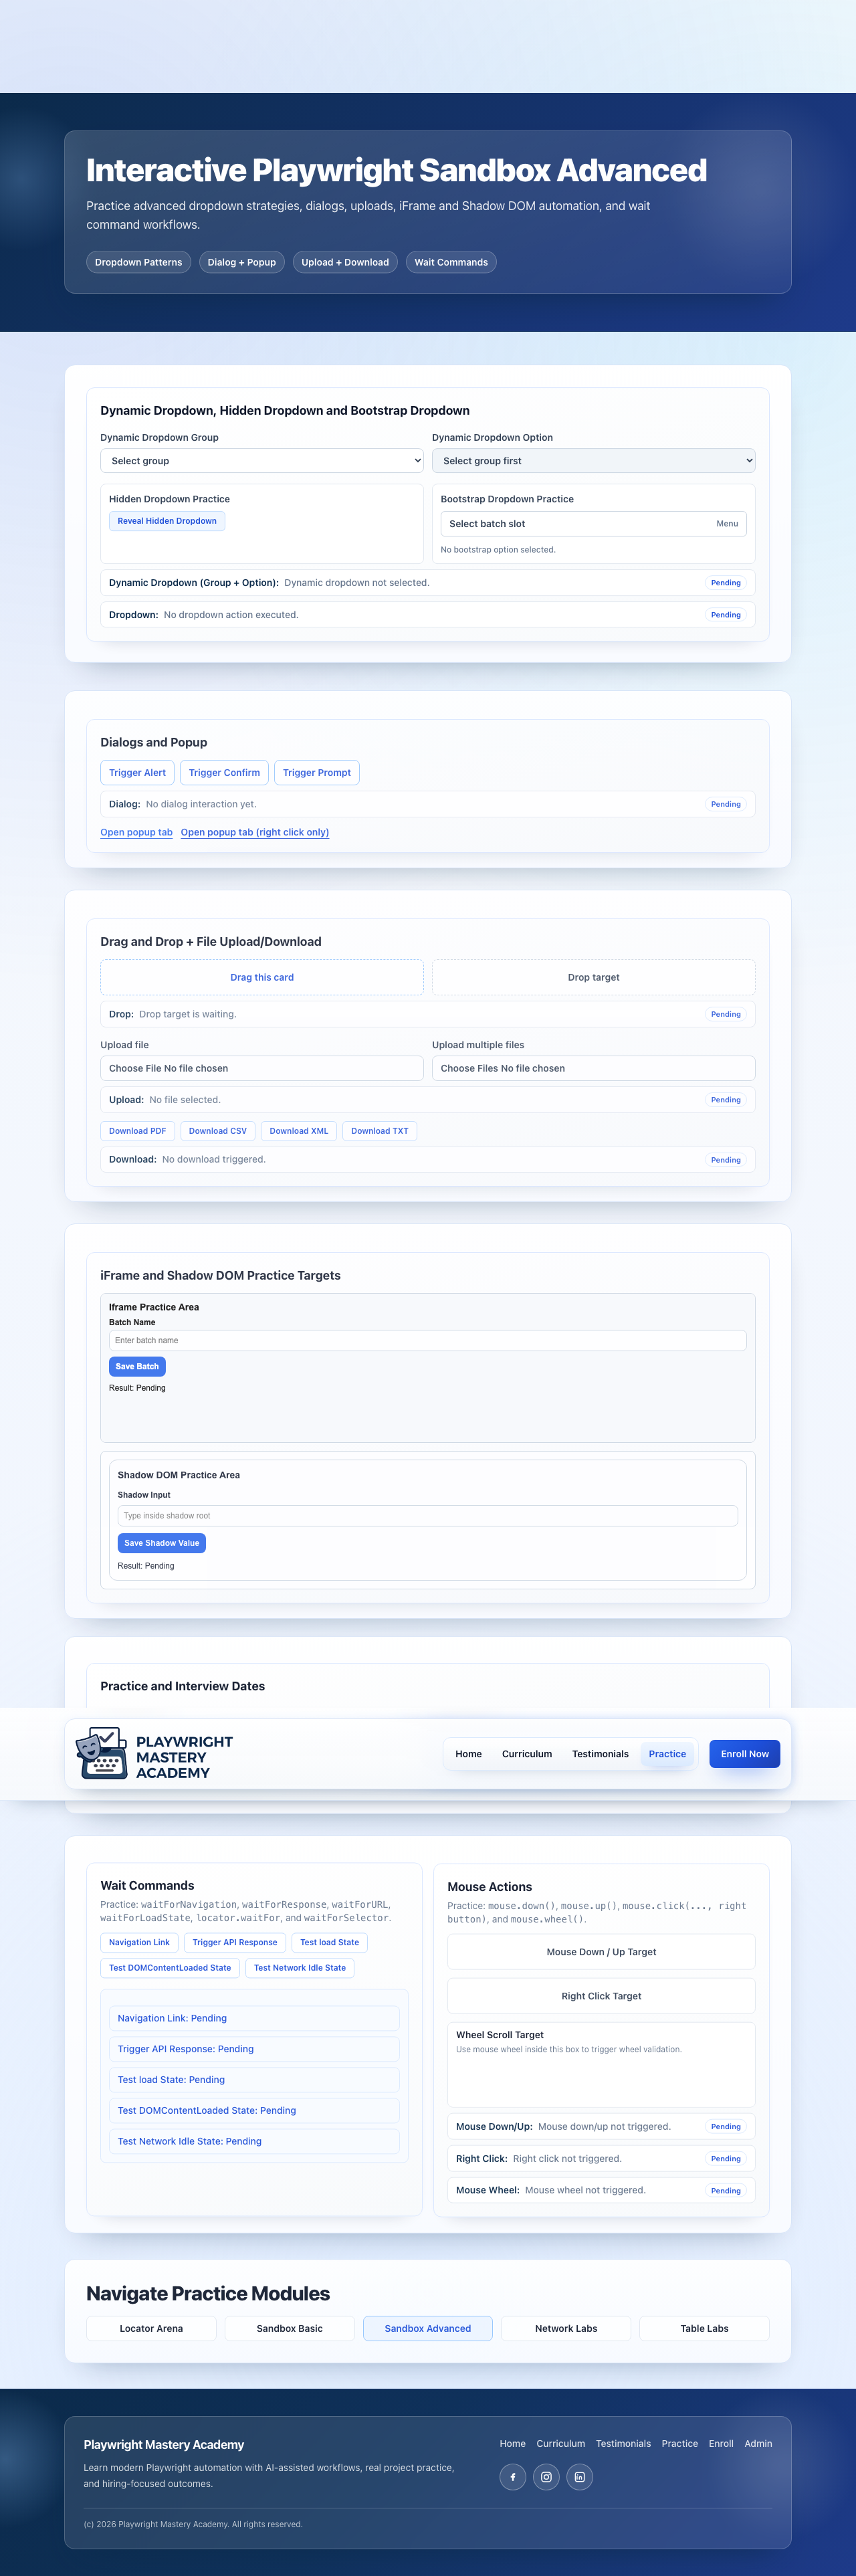
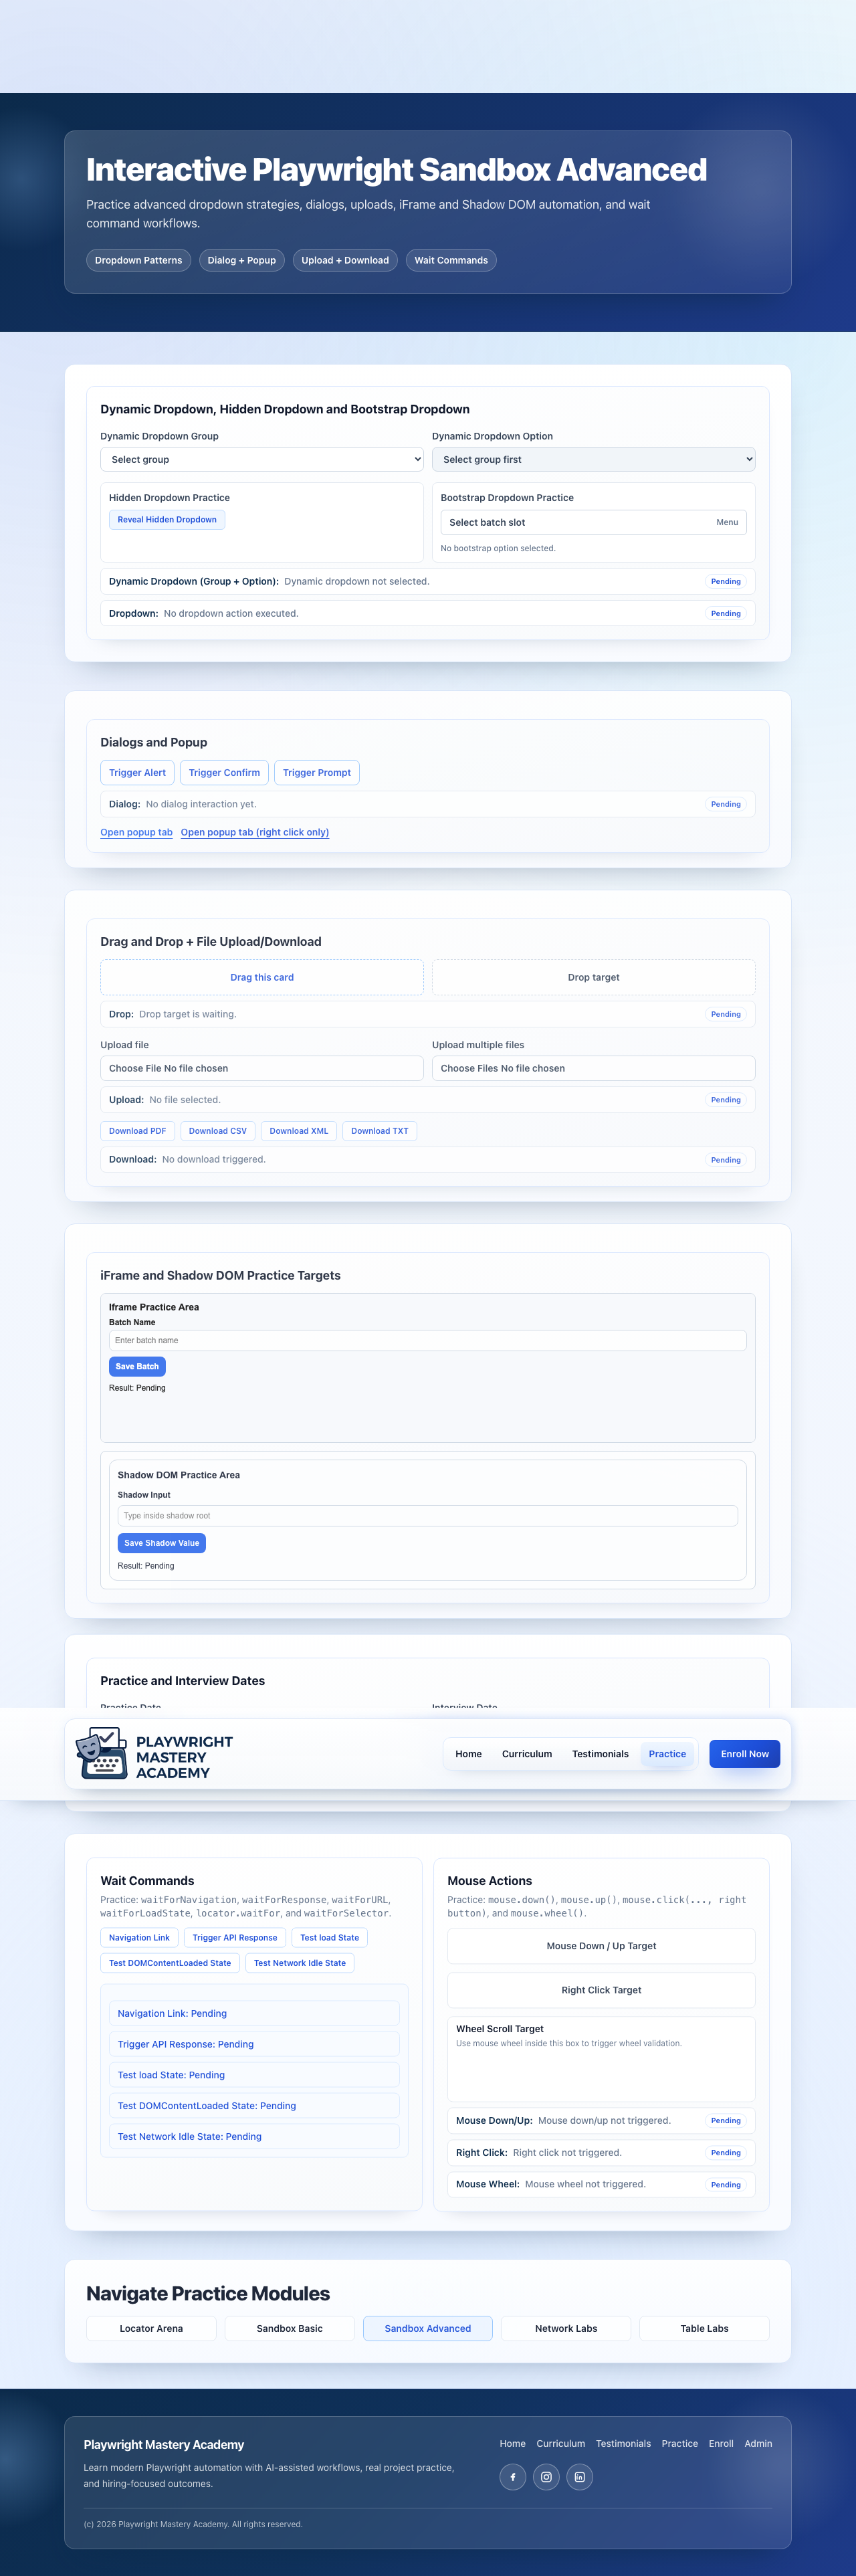
auth handling

diff --git a/e2e/authHandling.spec.ts b/e2e/authHandling.spec.ts
@@ -1,0 +1,71 @@
+import {test, expect, chromium, Browser, BrowserContext, Page} from '@playwright/test'
+
+
+test.describe('Authetication handling in playwright', ()=> {
+
+
+    let browser: Browser;
+    let context: BrowserContext;
+    let page: Page;
+
+    test.beforeAll(async ()=> {
+
+         browser = await chromium.launch()
+         context = await browser.newContext()
+         page = await context.newPage()
+
+        await page.goto('https://testcms.reco-claims.ca/Login')
+
+        await page.getByRole('textbox', { name: 'Username' }).fill('[email redacted]')
+
+        await page.getByRole('textbox', { name: 'Password' }).fill('Test1234!')
+
+        await page.locator('[type="submit"]').click()
+
+        await page.waitForTimeout(10000)
+
+        await context.storageState({path: 'storageState.json'})
+
+        await browser.close()
+
+    })
+
+
+    test.beforeEach(async ()=> {
+
+        browser = await chromium.launch()
+        context = await browser.newContext({storageState: 'storageState.json'})
+        page = await context.newPage()
+        await page.goto('https://testcms.reco-claims.ca', {timeout: 120000})
+
+    })
+
+    test.afterEach(async()=> {
+        await browser.close()
+    })
+
+
+
+
+    test('Verify searchbox is visible', async()=> {
+
+        await expect(page.getByRole('textbox', { name: 'Search' })).toBeVisible()
+        await page.waitForTimeout(10000)
+
+    })
+
+
+    test('Verify table header is visible', async()=> {
+
+        await expect(page.locator('thead')).toBeVisible()
+        await page.waitForTimeout(10000)
+
+    })
+
+
+
+
+
+
+
+})

diff --git a/e2e/advanced.spec.ts b/e2e/advanced.spec.ts
@@ -2,7 +2,7 @@ import { test, expect, chromium } from '@playwright/test'
 
 
 
-test('Handling Dynamic Dropdown', async ({ page }) => {
+test('Handling Dynamic Dropdown @smoke', async ({ page }) => {
 
     await page.goto('https://playwright-mastery-academy-app.vercel.app/practice/sandbox-advanced')
 
@@ -15,7 +15,7 @@ test('Handling Dynamic Dropdown', async ({ page }) => {
 })
 
 
-test('Handling Hidden dropdown', async ({ page }) => {
+test('Handling Hidden dropdown @regression @endtoend', async ({ page }) => {
 
     await page.goto('https://playwright-mastery-academy-app.vercel.app/practice/sandbox-advanced')
 
@@ -33,7 +33,7 @@ test('Handling Hidden dropdown', async ({ page }) => {
 
 
 
-test('handling Bootstrap Dropdown', async ({ page }) => {
+test('handling Bootstrap Dropdown @regression', async ({ page }) => {
 
 
     await page.goto('https://playwright-mastery-academy-app.vercel.app/practice/sandbox-advanced')
@@ -89,7 +89,7 @@ test('handling alert popup', async ({ page }) => {
 
 
 
-test('Handling New tab', async () => {
+test('Handling New tab @regression @endtoend', async () => {
 
 
     const browser = await chromium.launch()
@@ -586,7 +586,7 @@ test('retrying and non retrying assertions', async ({ page }) => {
 
 
 
-test.only('Hard vs soft asserions', async ({ page }) => {
+test('Hard vs soft asserions', async ({ page }) => {
 
     await page.goto('https://playwright-mastery-academy-app.vercel.app/practice/sandbox-advanced')
 

diff --git a/playwright.config.ts b/playwright.config.ts
@@ -19,18 +19,18 @@ export default defineConfig({
   },
   globalTimeout: 12000000,
   /* Run tests in files in parallel */
-  fullyParallel: false,
+  fullyParallel: true,
   /* Fail the build on CI if you accidentally left test.only in the source code. */
   forbidOnly: false,
   /* Retry on CI only */
   retries: 2,
   /* Opt out of parallel tests on CI. */
-  workers: 1,
+  workers: 5,
   /* Reporter to use. See https://playwright.dev/docs/test-reporters */
   reporter: 'html',
   /* Shared settings for all the projects below. See https://playwright.dev/docs/api/class-testoptions. */
   use: {
-    headless: false,
+    //headless: false,
     actionTimeout: 60000,
     navigationTimeout: 60000,
     /* Base URL to use in actions like `await page.goto('')`. */

diff --git a/e2e/basic.spec.ts b/e2e/basic.spec.ts
@@ -3,7 +3,7 @@ import {test, expect} from '@playwright/test'
 
 // only, skip, fixme, fail, slow
 
-test.only('Handling Click, Double Click, Hover, Tooltip, Static Dropdown', async({page})=> {
+test('Handling Click, Double Click, Hover, Tooltip, Static Dropdown @smoke', async({page})=> {
 
     // test.slow()
 